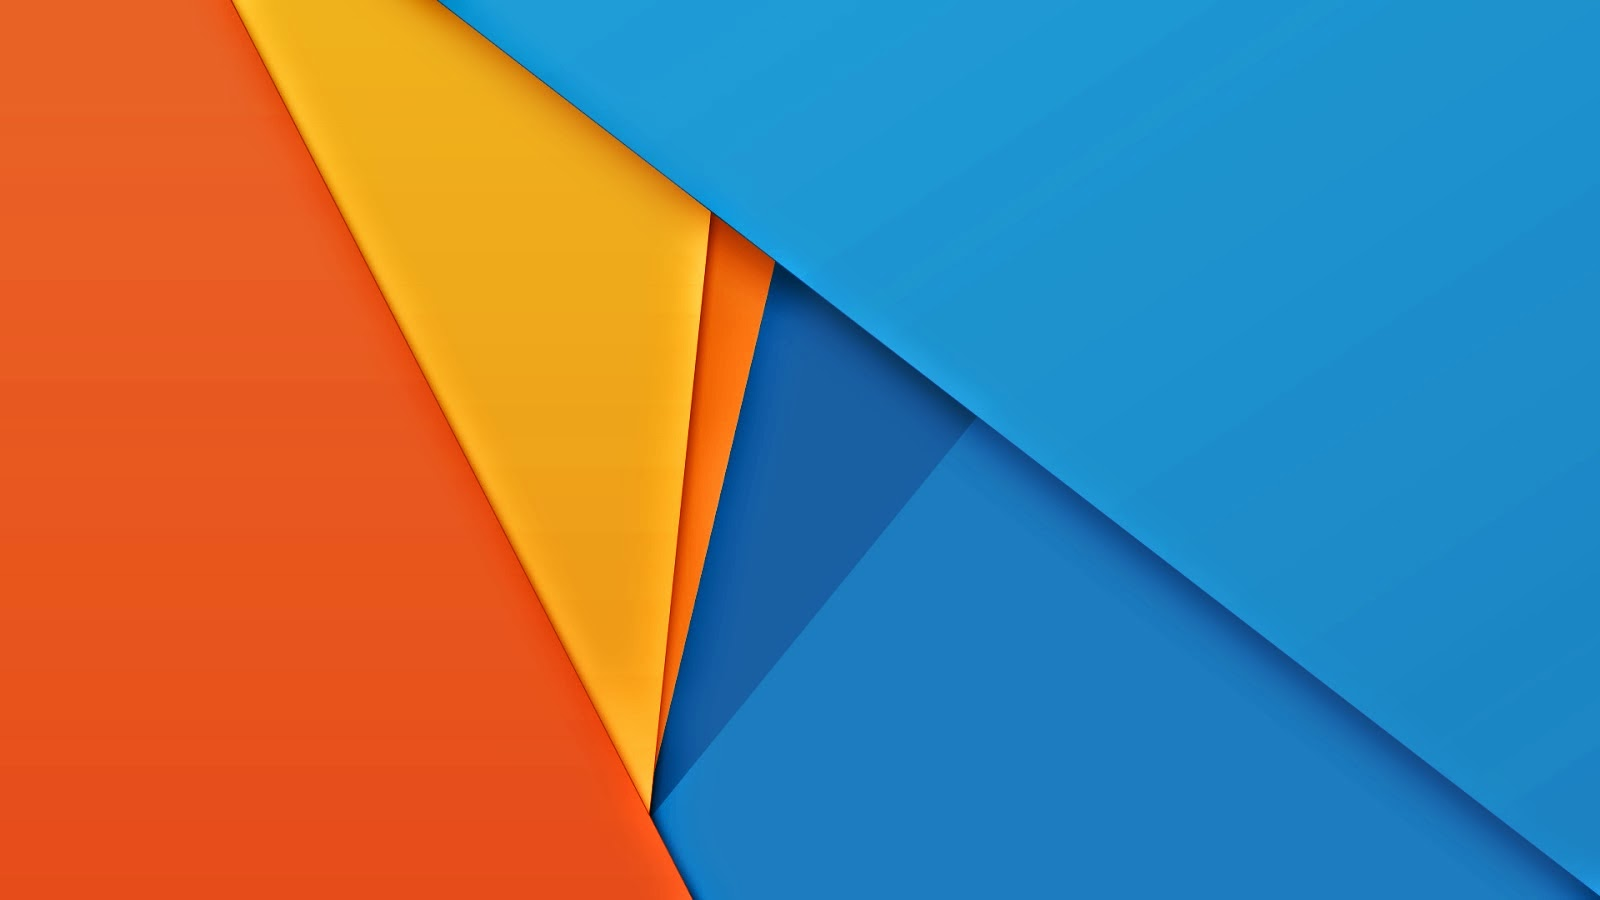
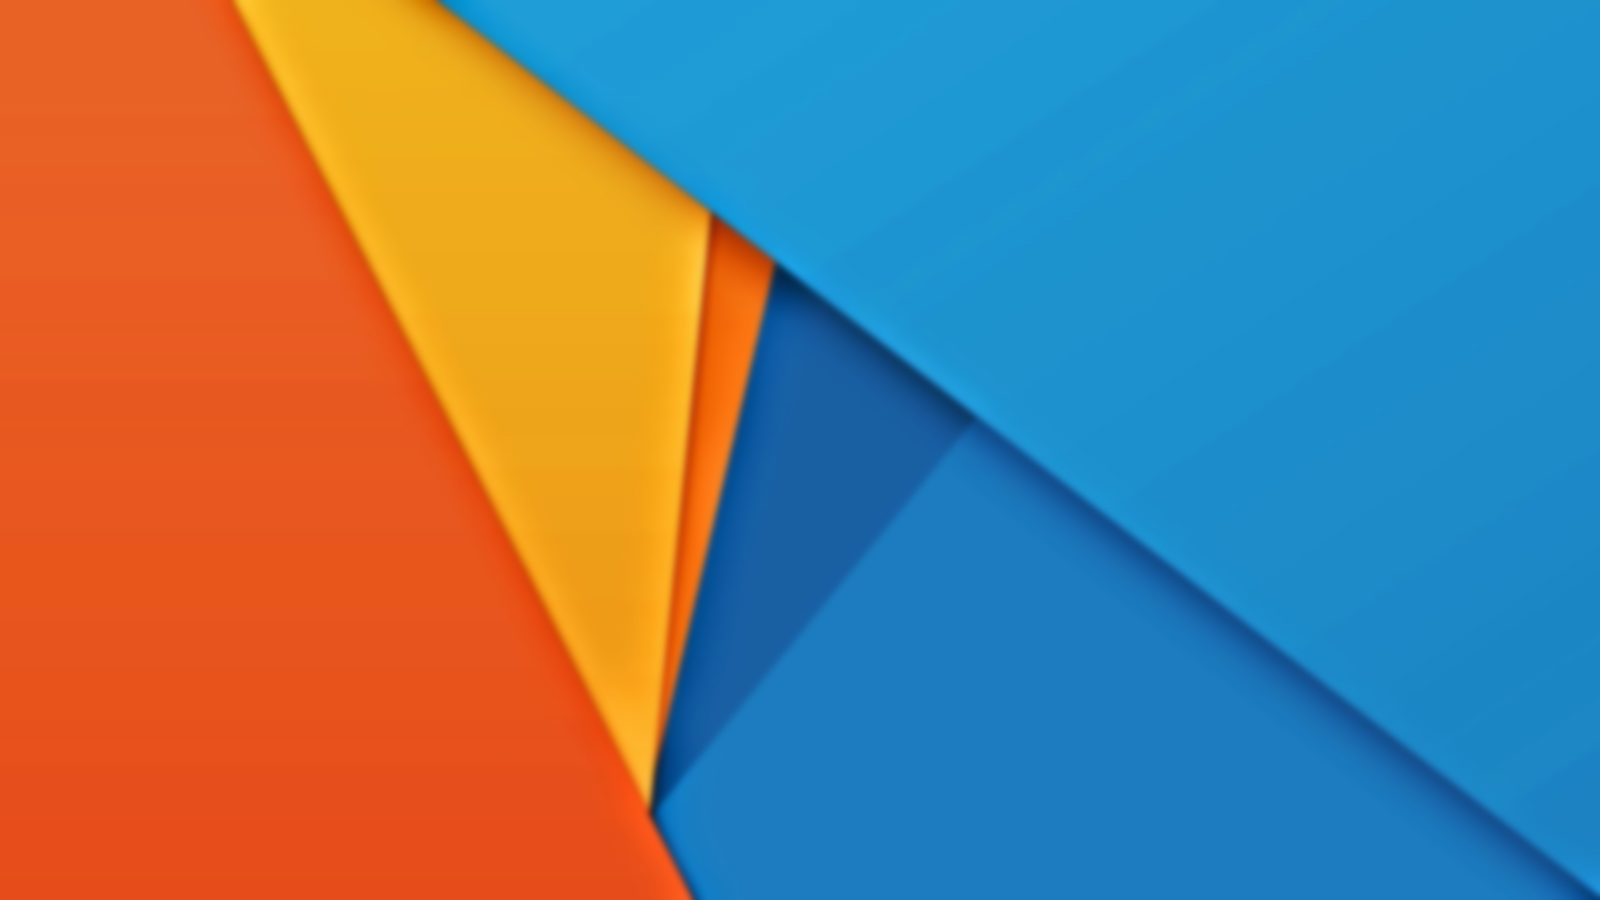
blurred images, removed blur filter
Instead of a blur filter, the images are now blured in the file. This
improves cross-browswer support (fucking IE) and site performance.
(images are not blurred at runtime)

diff --git a/index.html b/index.html
@@ -49,7 +49,7 @@
                 <div class="content">
 
                     <div class="background">
-                        <img class="blur" src="./images/banner01.jpg" alt="banner 01" />
+                        <img src="./images/banner01.jpg" alt="banner 01" />
                     </div>
 
                     <div class="foreground">
@@ -133,7 +133,7 @@
 
                 <div class="content">
                     <div class="background">
-                        <img class="blur" src="./images/banner02.jpg" alt="banner image" />
+                        <img src="./images/banner02.jpg" alt="banner image" />
                     </div>
                     <div class="foreground">
                         <h1 class="center">Features</h1>
@@ -213,7 +213,7 @@
 
                 <div class="content">
                     <div class="background ">
-                        <img class="blur" src="images/banner03.jpg " alt="banner image" />
+                        <img src="images/banner03.jpg " alt="banner image" />
                     </div>
                     <div class="foreground ">
                         <h1 class="center ">Stand-Bye in Zahlen</h1>
@@ -318,7 +318,7 @@
 
                 <div class="content">
                     <div class="background ">
-                        <img class="blur" src="./images/banner05.jpg " alt="banner image" />
+                        <img src="./images/banner05.jpg " alt="banner image" />
                     </div>
                     <div class="foreground">
                         <h1 class="center">Das Team</h1>
@@ -342,7 +342,7 @@
 
                 <div class="content">
                     <div class="background ">
-                        <img class="blur" src="./images/banner04.jpg " alt="banner image" />
+                        <img src="./images/banner04.jpg " alt="banner image" />
                     </div>
                     <div class="foreground ">
                         <h1 class="center ">Stand-Bye herunterladen</h1>

diff --git a/stylesheets/default.css b/stylesheets/default.css
@@ -109,15 +109,6 @@ hr {
     justify-content: center;
 }
 
-.blur {
-    -webkit-filter: blur(0.15em);
-    -ms-filter: blur(0.15em);
-    -moz-filter: blur(0.15em);
-    -o-filter: blur(0.15em);
-    filter: blur(0.15em);
-    filter: progid: DXImageTransform.Microsoft.Blur(PixelRadius='10');
-}
-
 
 /* Lists ******************************************************************/
 
